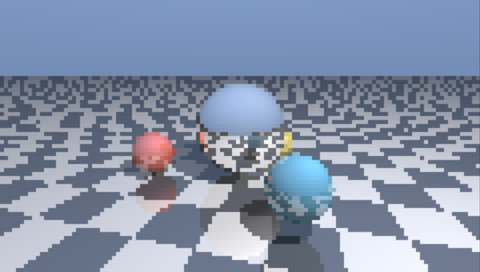
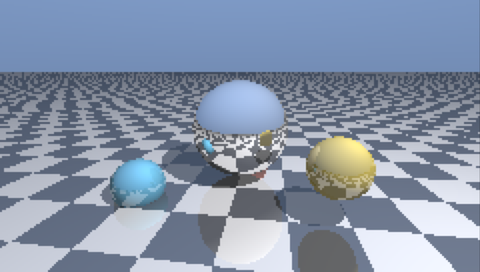
Trace one ray per 2x2 pixels instead of 4x4
Half the screen resolution in each direction rather than a quarter, which is
where the checkerboard reflected in the chrome sphere becomes legible and the
shadow edges stop looking like staircases.

It costs what it should: 4.24 fps against 16.82 before, where four times the
rays predicts 4.20. Cost is linear in ray count, so there is no fixed overhead
worth hunting.

diff --git a/src/main.rs b/src/main.rs
@@ -5,9 +5,9 @@
 //! PSP's GPU cannot do any of this: it is a fixed-function unit that textures
 //! triangles, so every ray here is followed in software on the CPU.
 //!
-//! The scene is traced at a quarter of the screen's resolution and each pixel
-//! is written as a 4x4 block, which is why it looks like 1997. That is the
-//! only way the frame rate reaches double digits.
+//! The scene is traced at half the screen's resolution in each direction and
+//! each traced pixel is written as a 2x2 block, which fills 480x272 exactly.
+//! Tracing every pixel would quadruple the work again for a screen this size.
 //!
 //! After `FRAMES` frames it writes ms0:/raytracer-result.json and exits, so
 //! that psp-devloop can decide whether the run passed instead of a person
@@ -21,10 +21,11 @@ use psp::{BUF_WIDTH, SCREEN_HEIGHT, SCREEN_WIDTH};
 
 psp::module!("psp_raytracer", 1, 0);
 
-/// Traced resolution. Scaled up by `SCALE` to exactly fill 480x272.
-const RENDER_W: usize = 120;
-const RENDER_H: usize = 68;
-const SCALE: usize = 4;
+/// Traced resolution. Scaled up by `SCALE` to exactly fill 480x272, so this is
+/// half the screen in each direction: one ray per 2x2 block of pixels.
+const RENDER_W: usize = 240;
+const RENDER_H: usize = 136;
+const SCALE: usize = 2;
 
 /// Frames to render before writing the result file and exiting.
 const FRAMES: u32 = 600;

diff --git a/README.md b/README.md
@@ -13,9 +13,9 @@ None of this uses the PSP's GPU, because it cannot do any of it — it is a
 fixed-function unit from 2004 that textures triangles. Every ray is followed in
 software on the 333 MHz MIPS Allegrex CPU.
 
-The scene is traced at 120x68 and each pixel is written as a 4x4 block, filling
-480x272 exactly. That is the only way the frame rate reaches double digits, and
-the resulting chunkiness is the point rather than a defect.
+The scene is traced at 240x136 — half the screen in each direction — and each
+traced pixel is written as a 2x2 block, filling 480x272 exactly. One ray covers
+four pixels.
 
 ## Measured
 
@@ -23,9 +23,13 @@ the resulting chunkiness is the point rather than a defect.
 
 | | |
 |---|---|
-| Frame rate | 16.8 fps |
-| Per frame | 59.5 ms |
-| Traced resolution | 120x68, scaled 4x |
+| Frame rate | 4.24 fps |
+| Per frame | 235.8 ms |
+| Traced resolution | 240x136, scaled 2x |
+
+Cost is linear in the number of rays, with nothing else worth measuring: at
+120x68 the same scene runs at 16.82 fps, and four times the rays gives 4.24,
+against 4.20 predicted.
 
 That number is emulated time, not a hardware measurement. PPSSPP is not
 cycle-accurate, so treat it as a regression signal rather than a prediction of
